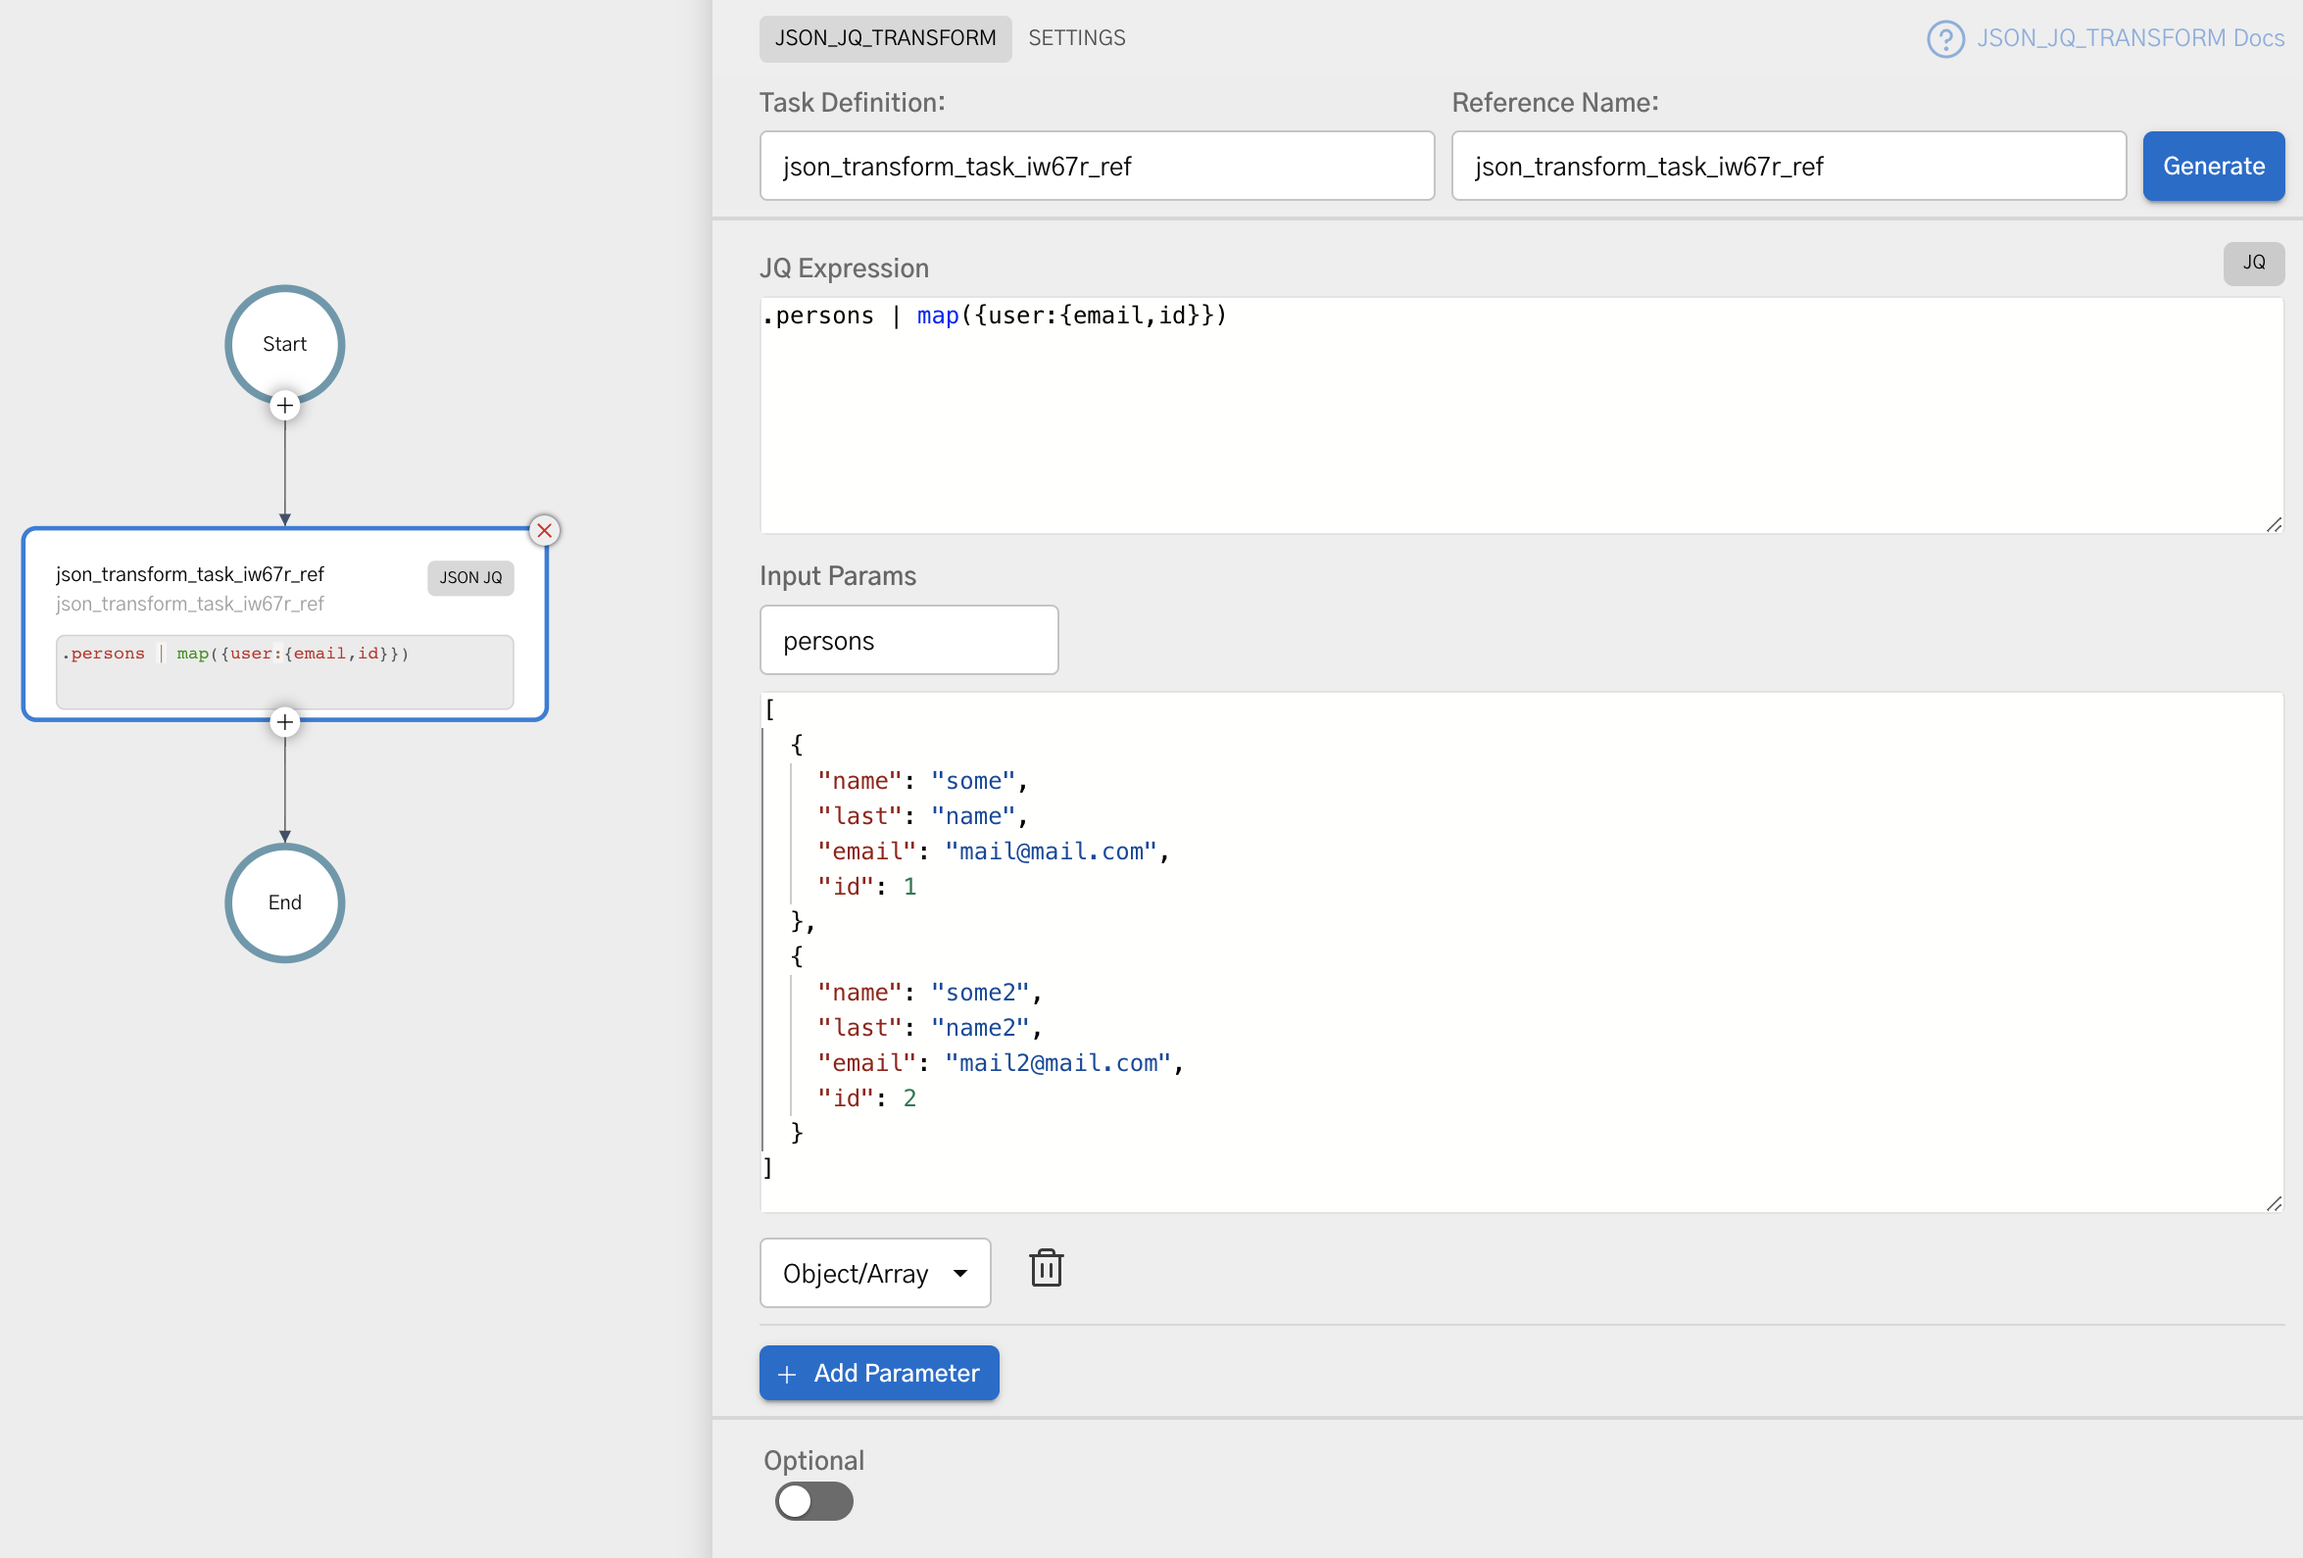
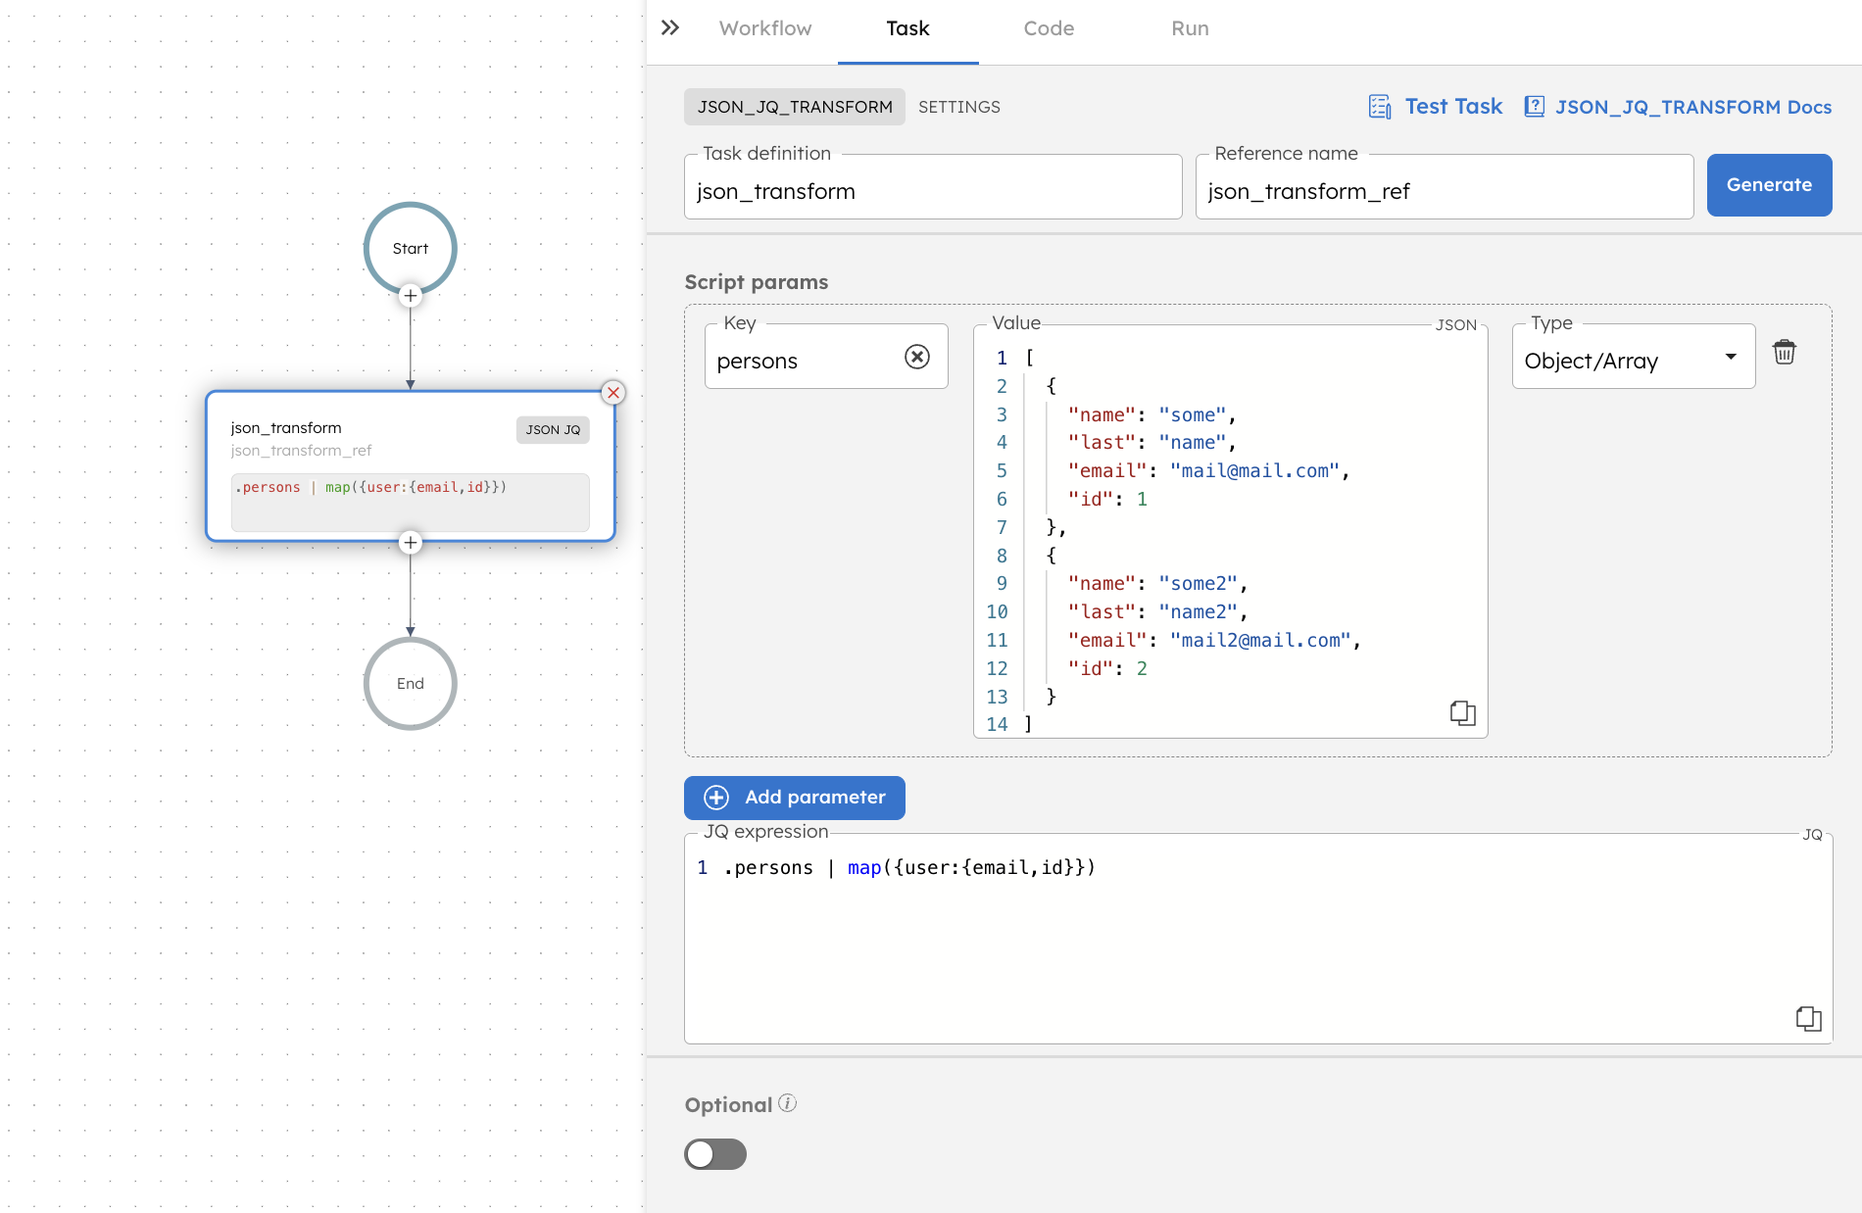
JQ Transform Doc Updates

diff --git a/docs/reference-docs/system-tasks/jq-transform.md b/docs/reference-docs/system-tasks/jq-transform.md
@@ -6,47 +6,50 @@ import TabItem from '@theme/TabItem';
 
 # Transformation using JQ
 
-The JSON_JQ_TRANSFORM task is a System task that allows the processing of JSON data that is supplied to the task by using the popular JQ processing tool’s query expression language.
+A system task that allows the processing of JSON data supplied to the task by using the popular JQ processing tool’s query expression language.
 
 ## Definitions
 
 ```json
-{
-  "name": "jq_example_task",
-  "taskReferenceName": "my_jq_example_task_ref",
-  "type": "JSON_JQ_TRANSFORM",
-  "inputParameters": {
-    "key1": {
-      "value1": [
-        "a",
-        "b"
-      ]
-    },
-    "key2": {
-      "value2": [
-        "c",
-        "d"
-      ]
-    },
-    "queryExpression": "{ key3: (.key1.value1 + .key2.value2) }"
-  }
-}
+  {
+     "name": "json_transform",
+     "taskReferenceName": "json_transform_ref",
+     "type": "JSON_JQ_TRANSFORM",
+     "inputParameters": {
+       "persons": [
+         {
+           "name": "some",
+           "last": "name",
+           "email": "mail@mail.com",
+           "id": 1
+         },
+         {
+           "name": "some2",
+           "last": "name2",
+           "email": "mail2@mail.com",
+           "id": 2
+         }
+       ],
+       "queryExpression": ".persons | map({user:{email,id}})"
+     }
+   }
 ```
 
 ### Input Parameters
 
-| Attribute                           | Description                                                                                                                                                                                                                                                                   |
-|-------------------------------------|-------------------------------------------------------------------------------------------------------------------------------------------------------------------------------------------------------------------------------------------------------------------------------|
-| inputParameters                     | The input parameters that will be supplied to this task. The parameters will be a JSON object of at least 2 attributes, one of which will be called **queryExpression**. The others are user-named attributes. These attributes will be accessible by the JQ query processor. |
-| inputParameters/user-defined-key(s) | User-defined key(s) along with values.                                                                                                                                                                                                                                        |
-| inputParameters/queryExpression     | A JQ query expression.                                                                                                                                                                                                                                                        |
+| Attribute  | Description |
+|------------|------------ |
+| inputParameters (Referred to as _Script params_ in UI) | JSON object defining configuration data for task execution. |
+| queryExpression | A string that represents a JQ (JSON Query) expression. This expression will be used to transform JSON data. |
+| optional | Enabling this option renders the task optional. The workflow continues unaffected by the task's outcome, whether it fails or remains incomplete. | 
 
 ### Output Parameters
-| Attribute  | Description                                                                  |
-|------------|------------------------------------------------------------------------------|
-| result     | The first results returned by the JQ expression.                             |
-| resultList | A List of results returned by the JQ expression.                             |
-| error      | An optional error message indicating that the JQ query failed to process.    |
+
+| Attribute  | Description |
+|------------|------------ |
+| result     | The result attribute stores the first element of the **_resultList_**. |
+| resultList | List of results returned by the JQ expression. |
+| error      | Optional error message if the JQ query fails. | 
 
 ## Examples
 
@@ -59,8 +62,8 @@ The JSON_JQ_TRANSFORM task is a System task that allows the processing of JSON d
 <br/>
 <br/>
 
-1. Add task type `JSON JQ TRANSFORM`.
-2. Configure the JQ script and the input.
+1. Add task type **JSON JQ TRANSFORM**.
+2. Configure the JQ script and provide the input parameters.
 
 </div>
 <div className="col">
@@ -109,6 +112,8 @@ The JSON_JQ_TRANSFORM task is a System task that allows the processing of JSON d
 <details><summary>Sample Workflow</summary>
 <p>
 
+To demonstrate how this task operates, consider the following workflow definition:
+
 ```json
     {
       "name": "jq_example_task",
@@ -132,12 +137,14 @@ The JSON_JQ_TRANSFORM task is a System task that allows the processing of JSON d
     }
 ```
 
-The inputParameters attribute is expected to have a value object with the following:
+The **inputParameters** attribute contains:
 
-1. A list of key-value pair objects denoted key1/value1, key2/value2 in the example. Note the key1/value1 are arbitrary names used in this example.
-2. A key with the name **queryExpression**, whose value is a JQ expression. The expression will operate on the value of the **inputParameters attribute**. In this example, the **inputParameters** have two inner objects named by attributes **key1** and **key2**, each of which has an object that is named **value1** and **value2**. They have an associated array of strings as values, **"a"**, **"b"** and **"c"**, **"d"**. The expression **key3: (.key1.value1 + .key2.value2)** concatenates the 2 string arrays into a single array against an attribute named **key3**.
+1. Key-value pairs **key1/value1** and **key2/value2**, which are arbitrary names in this context.
+2. The **queryExpression** key holds a JQ expression that operates on these parameters.  In this example:
+  - **key1** and **key2** are objects containing **value1** (**["a", "b"]**) and **value2** (**["c", "d"]**) respectively.
+  - The JQ expression **{ key3: (.key1.value1 + .key2.value2) }** concatenates these arrays into a single array under **key3**.
 
-The execution of this example task above will provide the following output. The **resultList** attribute stores the full list of the **queryExpression** result. The **result** attribute stores the first element of the resultList. An optional **error** attribute along with a string message will be returned if there is an error processing the query expression.
+Upon executing the above task, the output is structured as follows:
 
 ```json
     {
@@ -161,14 +168,20 @@ The execution of this example task above will provide the following output. The 
       ]
     }
 ```
+
+- **result**: Contains the result of **queryExpression**, where **key3** holds the concatenated array **["a", "b", "c", "d"]**.
+- **resultList**: Stores all results generated by **queryExpression**, with a single entry similar to result.
+
 </p>
 </details>
 
 <details><summary>Cleaning up a JSON response</summary>
 <p>
-An HTTP Task makes an API call to GitHub to request a list of "stargazers" (users who have starred a repository). The API response (for just one user) looks like this:
 
-The snippet of **${hundred_stargazers_ref.output}**
+An HTTP task initiates an API call to GitHub to retrieve a list of "stargazers" (users who have starred a repository). The API response snippet (for a single user) is as follows:
+
+
+The snippet of **${hundred_stargazers_ref.output}**:
 
 ```json
     [
@@ -197,7 +210,9 @@ The snippet of **${hundred_stargazers_ref.output}**
       }
     ]
 ```
-We only need the **starred_at** and **login** parameters for users who starred the repository after a given date (provided as an input to the workflow **${workflow.input.cutoff_date}**). We'll use the JQ Transform to simplify the output:
+
+We are interested only in the **starred_at** and **login** parameters for users who starred the repository after a specified date (**${workflow.input.cutoff_date}**). We will use JQ Transform to simplify the output:
+
 
 ```json
     {
@@ -211,7 +226,18 @@ We only need the **starred_at** and **login** parameters for users who starred t
     }
 ```
 
-The JSON is stored in **starlist**. The **queryExpression** reads in the JSON, selects only entries where the **starred_at** value meets the date criteria, and generates output JSON of the form:
+Here's what's happening:
+
+  - Input Parameters Explanation:
+    - **starlist**: Contains the JSON data retrieved from the API call to GitHub.
+    - **queryExpression**: Uses JQ syntax to filter and format the data:
+      - **select(.starred_at > "${workflow.input.cutoff_date}")**: Filters entries where **starred_at** is after $__{workflow.input.cutoff_date}__.
+      - **{ occurred_at: .starred_at, member: { github: .user.login } }**: Constructs a JSON object with **occurred_at** set to the **starred_at** value and **member** containing GitHub login from user.
+
+The entire **queryExpression** is enclosed in **[]** to denote that it's intended to produce an array of JSON objects. Each object corresponds to a user who meets the specified criteria (**starred_at** after **${workflow.input.cutoff_date}**).
+
+The **queryExpression** filters the JSON data, selecting entries where **starred_at** meets the specified date criteria, and formats the output JSON as follows:
+
 ```json
     {
       "occurred_at": "date from JSON",
@@ -220,6 +246,6 @@ The JSON is stored in **starlist**. The **queryExpression** reads in the JSON, s
       }
     }
 ```
-The entire expression is wrapped in [] to indicate that the response should be an array.
+
 </p>
 </details>
